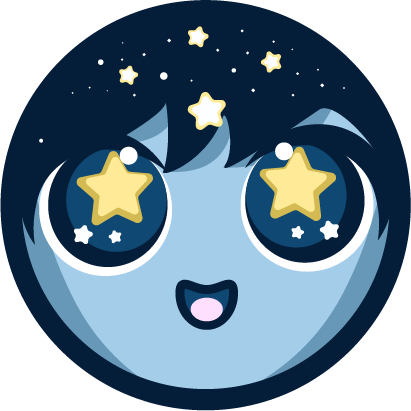
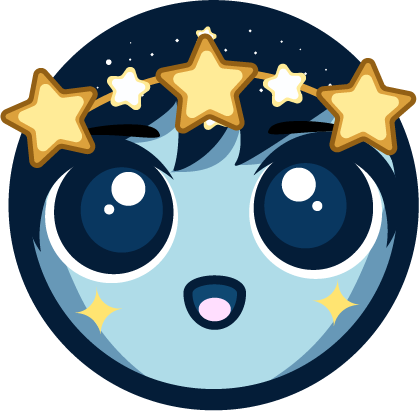
updated hoku

diff --git a/app/imports/ui/pages/chatbot/ChatBot.jsx b/app/imports/ui/pages/chatbot/ChatBot.jsx
@@ -7,10 +7,11 @@ import { Button, Col, Container, Form, Image, Row } from "react-bootstrap";
 const ChatBot = () => {
   const [messages, setMessages] = useState([]);
   const [text, setText] = useState("");
-  const [hokuLoading, setHokuLoading, introHoku] = useState(false);
-  const [chatOpen, setChatOpen,] = useState(false);
+  const [hokuLoading, setHokuLoading] = useState(false);
+  const [chatOpen, setChatOpen] = useState(true);
   const bottomOfChat = useRef();
-  const [welcomeOpen, setWelcomeOpen,] = useState(true);
+
+  const animationTag = chatOpen ? "slide-in" : "slide-out";
 
   useEffect(() => {
     if (bottomOfChat.current) {
@@ -48,88 +49,71 @@ const ChatBot = () => {
     <Container fluid className="chat-container bottom-right d-flex flex-column rounded-3 mb-3">
       <Row>
         <Col sm={12} md={{ span: 8, offset: 4 }} lg={{ span: 6, offset: 6 }}>
-          {chatOpen && (
-            <div className="shadow-lg rounded-3">
-              <div className=" d-flex justify-content-between ps-2 p-2 bg-vibrant-primary rounded-top-3">
-                <div className="d-flex fw-medium fs-5 m-1 text-white align-items-center">
-                  <Image src={"images/hoku-pfp.png"} width={50} />
-                  <h1 className={"ps-3 m-0"}>Hoku</h1>
-                </div>
+          <div className={`shadow-lg rounded-3 ${animationTag}`}>
+            <div className="d-flex justify-content-between ps-2 p-2 bg-vibrant-primary rounded-top-3">
+              <div className="d-flex fw-medium fs-5 m-1 text-white align-items-center">
+                <Image src={"images/hoku-pfp.png"} width={50} />
+                <h1 className={"ps-3 m-0"}>Hoku</h1>
               </div>
-
-              <div className="chat-area overflow-y-auto flex-grow-1 bg-white">
-                <div className="d-flex flex-column">
-                  {messages.map((data, i) =>
-                    data.sender === "user" ? (
-                      <UserChatMessage key={i} text={data.text} />
-                    ) : (
-                      <AiChatMessage key={i} context={data.context} />
-                    ),
-                  )}
-                  {introHoku && <AiChatMessage loading={hokuLoading} intro={handleIntro} />}
-                  {hokuLoading && <AiChatMessage loading={hokuLoading} text={"loading..."} />}
-                  <div ref={bottomOfChat}></div>
-                </div>
-
-                <div className="flex-grow-1"></div>
-              </div>
-
-              <Form className="d-flex flex-row bg-white rounded-bottom-3" onSubmit={handleSend}>
-                <Form.Control
-                  type={"text"}
-                  className={"m-2 p-1 mt-3 fw-light d-flex px-2 rounded-pill chat-field"}
-                  placeholder={"Ask Hoku"}
-                  onChange={(e) => {
-                    if (e.target.value.length > 120) {
-                      return;
-                    }
-                    setText(e.target.value);
-                  }}
-                  value={text}
-                ></Form.Control>
-
-                <div className={"d-flex flex-column justify-content-center pe-2"}>
-                  <Button size={"sm"} type={"submit"} className={"rounded-circle btn-vibrant-primary mt-2"}>
-                    <SendFill />
-                  </Button>
-                </div>
-              </Form>
             </div>
-          )}
+
+            <div className="chat-area overflow-y-auto flex-grow-1 bg-white">
+              <div className="d-flex flex-column">
+                {messages.map((data, i) =>
+                  data.sender === "user" ? (
+                    <UserChatMessage key={i} text={data.text} />
+                  ) : (
+                    <AiChatMessage key={i} context={data.context} />
+                  ),
+                )}
+                {hokuLoading && <AiChatMessage loading={hokuLoading} text={"loading..."} />}
+                <div ref={bottomOfChat}></div>
+              </div>
+
+              <div className="flex-grow-1"></div>
+            </div>
+
+            <Form className="d-flex flex-row bg-white rounded-bottom-3" onSubmit={handleSend}>
+              <Form.Control
+                type={"text"}
+                className={"m-2 p-1 mt-3 fw-light d-flex px-2 rounded-pill chat-field"}
+                placeholder={"Ask Hoku"}
+                onChange={(e) => {
+                  if (e.target.value.length > 120) {
+                    return;
+                  }
+                  setText(e.target.value);
+                }}
+                value={text}
+              ></Form.Control>
+
+              <div className={"d-flex flex-column justify-content-center pe-2"}>
+                <Button size={"sm"} type={"submit"} className={"rounded-circle btn-vibrant-primary mt-2"}>
+                  <SendFill />
+                </Button>
+              </div>
+            </Form>
+          </div>
         </Col>
       </Row>
 
-
       <div className={"d-flex flex-column"}>
-        <div className={"d-flex justify-content-end align-items-center"}>{welcomeOpen && <div className="welcome bg-white">
-          <div className={"rounded-top-2 bg-primary text-white h-25 p-3"}>
-            <div className={"row p-0"}>
-              <div className={"w-auto"}>May I help you?</div>
-              <div type="button" className="btn-close justify-content-end" aria-label="Close" onClick={() => {
-                setWelcomeOpen(false);
-              }}>
-              </div>
-            </div>
-          </div>
-          <p className={"p-3"}>Hi, I am Hoku! Click on the message icon if you need any assistance.</p>
-        </div>}</div>
         <div className={"d-flex justify-content-end align-items-center"}>
           <Button
             className={"d-flex mt-2 p-2 btn-vibrant-primary shadow-lg rounded-3"}
             onClick={() => {
               setChatOpen(!chatOpen);
-              setWelcomeOpen(false);
             }}
           >
             <div className={"text-white d-flex"}>
-              <ChatRightDotsFill className={"mt-2"}/>
+              <ChatRightDotsFill className={"mt-2"} />
               <div className={"p-1"}>Questions? Ask Hoku</div>
             </div>
           </Button>
         </div>
       </div>
     </Container>
-);
+  );
 };
 
 export default ChatBot;

diff --git a/app/imports/ui/pages/chatbot/AiChatMessage.jsx b/app/imports/ui/pages/chatbot/AiChatMessage.jsx
@@ -13,7 +13,7 @@ function ChatLoading() {
   );
 }
 
-const AiChatMessage = ({ context, loading, intro = false }) => {
+const AiChatMessage = ({ context, loading = false }) => {
   const [show, setShow] = useState(false);
 
   const onSubmit = (data) => {
@@ -31,15 +31,13 @@ const AiChatMessage = ({ context, loading, intro = false }) => {
 
   return (
     <div className={"d-flex align-items-end"}>
-      <Image className="ai-pfp position-relative" src={"images/hoku-pfp.png"} width={40} height={40} className={"mx-2"} />
-      <div className="ai-text-box align-self-start d-flex p-2 justify-content-start bg-primary text-white text-break me-lg-5 me-sm-2">
+      <Image fluid className="ai-pfp position-relative mx-2" src={"images/hoku-pfp.png"} width={40} height={40} />
+      <div className="ai-text-box align-self-start d-flex p-2 justify-content-start bg-primary text-white text-break me-lg-5 me-2">
         {loading ? (
           <ChatLoading />
         ) : (
           <div className={"d-flex"}>
-            {intro ? (<div>Hi I am Hoku</div>) : (
-              <div>{context.answer}</div>
-              )}
+            <div>{context.answer}</div>
             <div className={"d-flex"}>
               <ExclamationCircle className={"ms-2"} onClick={() => setShow(true)} />
             </div>

diff --git a/app/imports/ui/pages/AboutHoku.jsx b/app/imports/ui/pages/AboutHoku.jsx
@@ -3,7 +3,7 @@ import React from "react";
 
 const AboutHoku = () => (
   <Row className="align-middle text-center m-5" xs={1} md={2}>
-    <Col className="text-center">
+    <Col className="d-flex flex-column text-center mt-4">
       <h1 className="text-animation">MEET HOKU</h1>
       <p>
         Ask Us is a knowledge base of frequently asked questions (FAQs) related to information technology. Enter
@@ -13,8 +13,8 @@ const AboutHoku = () => (
       </p>
       <button type="btn" className="btn btn-outline-dark">Learn More</button>
     </Col>
-    <Col className="align-content-center">
-      <Image src="images/Hoku.png" id="hoku" />
+    <Col className="d-flex flex-column mt-4">
+      <Image src="images/hoku-pfp.png" id="hoku" />
     </Col>
   </Row>
 );

diff --git a/app/imports/ui/Search.jsx b/app/imports/ui/Search.jsx
@@ -1,0 +1,22 @@
+import React, { useState } from "react";
+import { useTracker } from "meteor/react-meteor-data";
+import { Button, Col, Container, Form, Row } from "react-bootstrap";
+
+const Search = () => {
+  return (
+    <Container className="m-3">
+      <Row>
+        <Col sm={4}>
+          <Form className="d-flex">
+            <Form.Control type="search" placeholder="Search" className="me-2 rounded-pill" aria-label="Search" />
+            <Button className="rounded-pill" variant="outline-primary">
+              Search
+            </Button>
+          </Form>
+        </Col>
+      </Row>
+    </Container>
+  );
+};
+
+export default Search;

diff --git a/app/imports/ui/pages/report/ReportsPage.jsx b/app/imports/ui/pages/report/ReportsPage.jsx
@@ -3,6 +3,7 @@ import { useTracker } from "meteor/react-meteor-data";
 import ReportView from "./ReportView";
 import { Col, Container, Row } from "react-bootstrap";
 import { ReportCollection } from "../../../api/ReportCollection";
+import Search from '../../Search';
 
 Meteor.subscribe("reports");
 
@@ -12,7 +13,9 @@ const ReportsPage = () => {
   return (
     <Container fluid>
       <Col className={""}>
+        <Row><Search/></Row>
         <Row className={"d-none d-md-flex"}>
+
           <Col md={1} className={"fw-bold"}>
             Comment
           </Col>

diff --git a/app/client/main.css b/app/client/main.css
@@ -89,6 +89,34 @@ footer a {
   right: 0;
 }
 
+.slide-in {
+  position: relative;
+  animation: 0.5s slide-left ease-in-out;
+}
+
+.slide-out {
+  position: relative;
+  animation: 0.5s slide-right ease-in-out forwards;
+}
+
+@keyframes slide-left {
+  0% {
+    right: -100vw;
+  }
+  100% {
+    right: 0;
+  }
+}
+
+@keyframes slide-right {
+  0% {
+    right: 0;
+  }
+  100% {
+    right: -100vw;
+  }
+}
+
 @keyframes change-color {
   0%, 100% {
     background-color: white;
@@ -192,5 +220,8 @@ body {
     background-position: 200% center;
   }
 }
+
+
+
 
 

diff --git a/app/imports/ui/pages/report/ReportView.jsx b/app/imports/ui/pages/report/ReportView.jsx
@@ -2,6 +2,8 @@ import React from "react";
 import { Col, Row } from "react-bootstrap";
 import ContextModal from "./ContextModal";
 import ResolveModal from "./ResolveModal";
+import { useTracker } from 'meteor/react-meteor-data';
+import { ReportCollection } from '../../../api/ReportCollection';
 
 const ReportView = ({ report, index }) => {
   const bgTag = index % 2 === 0 ? "bg-dark-subtle" : "";
